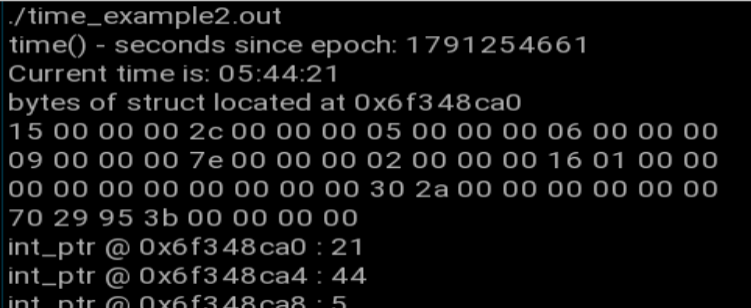
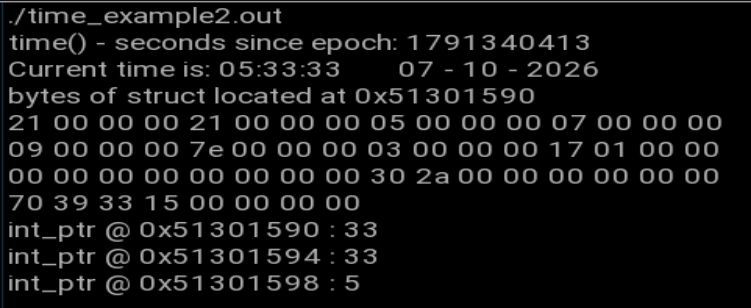
Lerning the topic of == FUNC_PTR ==

Changed region(s): [[0.0, 0.0, 1.0, 1.0]]

diff --git a/THE_ART_OF_EXPLOITATION/proging/STRUCT/time_example2.c b/THE_ART_OF_EXPLOITATION/proging/STRUCT/time_example2.c
@@ -36,7 +36,8 @@ int main()
     minute = time_ptr->tm_min; // Доступ по указателю
     second = *((int *) time_ptr); // Хакерский доступ по указателю
 
-    printf("Current time is: %02d:%02d:%02d\n", hour, minute, second);
+    printf("Current time is: %02d:%02d:%02d\t%02d - %02d - %04d\n", hour, minute, second, time_ptr->tm_mday,\
+            (time_ptr->tm_mon+1), (time_ptr->tm_year+1900));
     dump_time_struct_bytes(time_ptr, sizeof(struct tm));
 
     minute = hour = 0; // Очистить минуты и часы.

diff --git a/THE_ART_OF_EXPLOITATION/proging/FUNC_PTR/funcptr_example.c b/THE_ART_OF_EXPLOITATION/proging/FUNC_PTR/funcptr_example.c
@@ -1,0 +1,1 @@
+#include <stdio.h>
